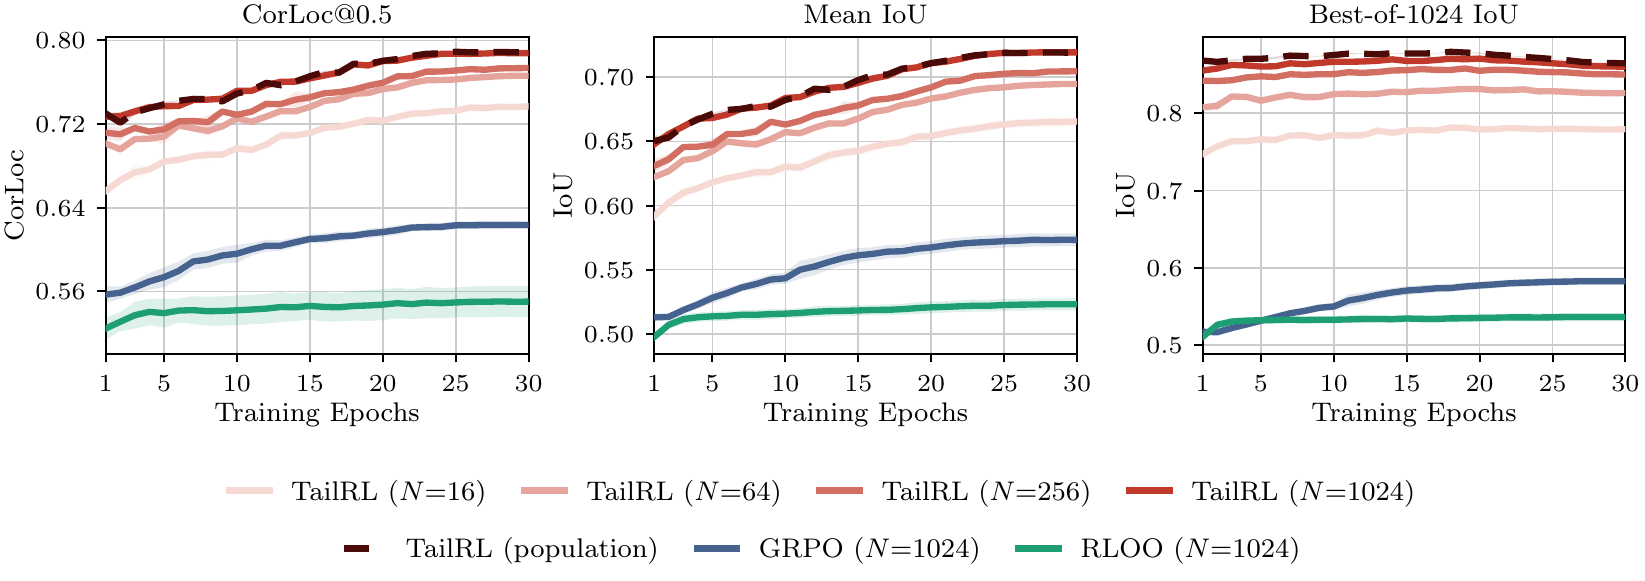
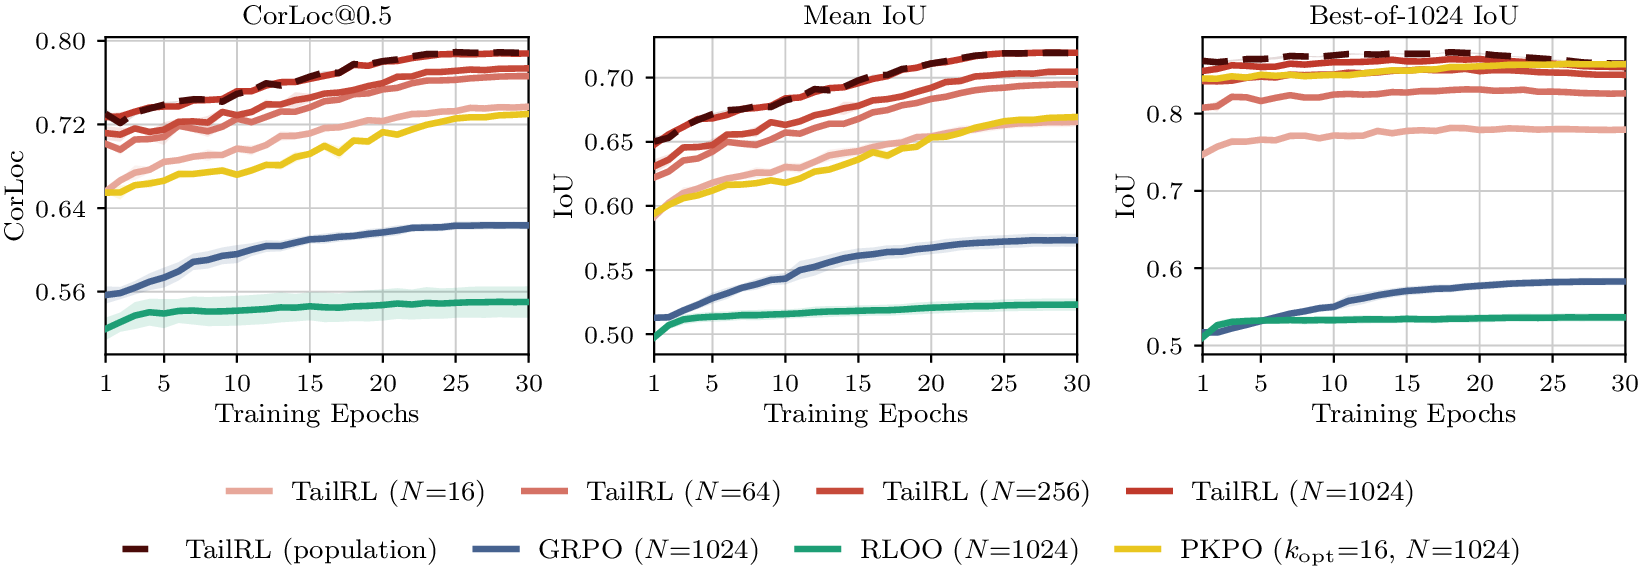
Update the ImageNet and maze figures for PKPO; expand the ImageNet prose
Re-rendered imagenet_rl_curves and maze_init_sweep_wrap from the current
paper source at origin/main -- those are the only two website figures that
changed there; gui_scales, pie_results_v3 and pie_rollout_dist_v2 are
untouched. Both now carry a PKPO curve, so alt text and captions name it,
and the intrinsic sizes follow the re-render (the maze figure's aspect
ratio changed, 766x688 -> 834x691).

The maze caption said the methods "converge" once successes are common,
which was true of three curves and is not true of the fourth: PKPO trails
TailRL across the sweep and falls off at the good-initialization end.

Adds supporting prose to the ImageNet card: what a rollout and its reward
are, and why this is the one setting where the population objective can be
computed exactly rather than estimated -- which is what the card's question
is actually about.

Claude-Session: https://claude.ai/code/session_01UQ3K2zLgrsxofoCMyiEGNg

diff --git a/TailRL/index.html b/TailRL/index.html
@@ -30,17 +30,17 @@
   <link href="https://fonts.googleapis.com/css?family=Google+Sans|Noto+Sans|Castoro&display=swap" rel="stylesheet">
 
   <link rel="stylesheet" href="./static/css/bulma.min.css">
-  <link rel="stylesheet" href="./static/css/index.css?v=70">
+  <link rel="stylesheet" href="./static/css/index.css?v=71">
   <link rel="stylesheet" href="https://cdn.jsdelivr.net/npm/katex@0.16.9/dist/katex.min.css">
 
   <script defer src="https://cdn.jsdelivr.net/npm/katex@0.16.9/dist/katex.min.js"></script>
   <script defer src="https://cdn.jsdelivr.net/npm/katex@0.16.9/dist/contrib/auto-render.min.js"
     onload="renderMathInElement(document.body, {delimiters: [{left: '$$', right: '$$', display: true}, {left: '$', right: '$', display: false}]});"></script>
 
-  <script defer src="./static/js/same-mean-tail.js?v=70"></script>
-  <script defer src="./static/js/tailrl-explorer.js?v=70"></script>
-  <script defer src="./static/js/index.js?v=70"></script>
-  <script defer src="./static/js/scroll-jack.js?v=70"></script>
+  <script defer src="./static/js/same-mean-tail.js?v=71"></script>
+  <script defer src="./static/js/tailrl-explorer.js?v=71"></script>
+  <script defer src="./static/js/index.js?v=71"></script>
+  <script defer src="./static/js/scroll-jack.js?v=71"></script>
 </head>
 <body>
 
@@ -391,7 +391,7 @@
     </p>
 
     <div style="margin: 0 0 0.5rem 0;">
-      <iframe id="tailrl-code-frame" src="./code.html?v=70" title="TailRL advantage computation as a diff against GRPO"
+      <iframe id="tailrl-code-frame" src="./code.html?v=71" title="TailRL advantage computation as a diff against GRPO"
               width="900" height="662"
               style="border: none; overflow: hidden; width: 100%; display: block;"
               scrolling="no"></iframe>
@@ -465,14 +465,23 @@
       <h4>ImageNet localization</h4>
       <p>
         ImageNet object localization asks for a bounding box around the object of interest, without classifying it.
+        A rollout is a sampled box, and its reward is that box's IoU with the ground truth, so the feedback is
+        continuous rather than pass/fail.
+      </p>
+      <p>
+        This is the one setting where the exact target is computable. The policy is a categorical distribution over
+        a large but finite set of boxes, so the reward distribution it induces &mdash; and with it the population
+        objective &mdash; can be evaluated directly rather than estimated. That makes it possible to ask whether the
+        finite-rollout estimator really does approach the objective it is meant to optimize as $N$ grows, instead of
+        assuming it.
       </p>
       <figure class="figure-container">
-        <img loading="lazy" decoding="async" src="./static/images/imagenet_rl_curves.png" width="1645" height="581"
-             alt="Three panels showing CorLoc at 0.5, mean IoU and Best-of-1024 IoU against training epochs. TailRL curves at increasing rollout budgets rise toward a dashed exact-objective reference, and all sit above the GRPO and RLOO curves.">
+        <img loading="lazy" decoding="async" src="./static/images/imagenet_rl_curves.png?v=71" width="1644" height="581"
+             alt="Three panels showing CorLoc at 0.5, mean IoU and Best-of-1024 IoU against training epochs. TailRL curves at increasing rollout budgets rise toward a dashed exact-objective reference, and all sit above the GRPO, RLOO and PKPO curves.">
         <figcaption class="figure-caption">
           CorLoc@$0.5$, mean IoU and Best-of-$1024$ IoU on the held-out validation set. TailRL trains at
           $N\in\{16,64,256,1024\}$, darker curves for larger $N$; the dashed curve optimizes the exactly computed
-          population objective. GRPO and RLOO use $N=1024$.
+          population objective. GRPO, RLOO and PKPO ($k_{\mathrm{opt}}=16$) use $N=1024$.
         </figcaption>
       </figure>
       <p class="result-note">
@@ -499,12 +508,13 @@
         rare-success regime, where RLOO stays at zero and GRPO becomes seed-dependent.
       </p>
       <figure class="figure-container">
-        <img loading="lazy" decoding="async" src="./static/images/maze_init_sweep_wrap.png"
-             width="766" height="688" style="max-width: 470px; width: 100%;"
-             alt="Pass@1 after RL plotted against Pass@1 before RL. In the shaded low-success region the TailRL curve stays high while RLOO sits at zero and GRPO varies widely across seeds.">
+        <img loading="lazy" decoding="async" src="./static/images/maze_init_sweep_wrap.png?v=71"
+             width="834" height="691" style="max-width: 470px; width: 100%;"
+             alt="Pass@1 after RL plotted against Pass@1 before RL for TailRL, GRPO, RLOO and PKPO. In the shaded poor-initialization region the TailRL curve stays high, RLOO and GRPO start at zero, and PKPO sits well below TailRL.">
         <figcaption class="figure-caption">
-          Pass@$1$ before and after post-training with $N=16$. In the shaded region RLOO ends at zero shortest-path
-          success and GRPO becomes seed-dependent; once successes are common the three methods converge.
+          Pass@$1$ before and after post-training with $N=16$. The shaded region marks poor policy initialization,
+          where GRPO and RLOO fail to improve reliably. TailRL holds up across the whole sweep; PKPO trails it
+          everywhere and falls off once successes are common.
         </figcaption>
       </figure>
       <p class="takeaway-line">
